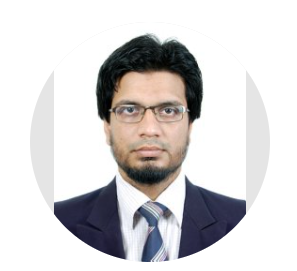
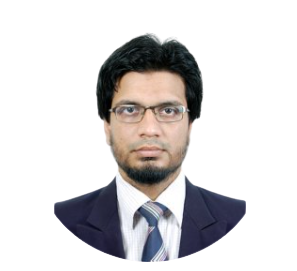
newww

diff --git a/index.html b/index.html
@@ -224,31 +224,31 @@
             <div class="col-sm-16">
                 <div class="row text-center">
                     <div class="card col-sm-12" id="speakerCard">
-                        <img src="/img/pic1.png" class="card-img-top rounded-circle" alt="Prof. Shigeki Takeda">
+                        <center><img src="/img/pic1.png" class="card-img-top profile" alt="Prof. Shigeki Takeda"></center>
                         <div class="card-body">
                             <h5 class="card-title">Prof. Shigeki Takeda</h5>
                             <p class="card-text">Graduate School of Science and Engineering, Ibaraki University, Japan.</p>
                         </div>
                     </div>
                     <div class="card" id="speakerCard">
-                        <img src="/img/pic2.jpg" class="card-img-top rounded-circle" alt="Prof. Sri Hartati">
+                        <center> <img src="/img/pic2.png" class="card-img-top profile" alt="Prof. Sri Hartati"></center>
                         <div class="card-body">
                             <h5 class="card-title">Prof. Sri Hartati</h5>
-                            <p class="card-text">Faculty of Mathematics and Natural Science, Universitas Gajah Mada, Indonesia.</p>
+                            <p class="card-text">Faculty of Mathematics and Natural Sciences, Universitas Gajah Mada, Indonesia.</p>
                         </div>
                     </div>
                     <div class="card" id="speakerCard">
-                        <img src="/img/pic3.png" class="card-img-top  rounded-circle" alt="Dr. Fakir Sharif Hossain">
+                        <img src="/img/pic3.png" class="card-img-top " alt="Dr. Fakir Sharif Hossain">
                         <div class="card-body">
                             <h5 class="card-title">Dr. Fakir Sharif Hossain</h5>
                             <p class="card-text">Bangladesh Army International University of Science and Technology, Bangladesh.</p>
                         </div>
                     </div>
                     <div class="card" id="speakerCard">
-                        <img src="/page/assets/avaF.png" class="card-img-top" alt="...">
+                        <center> <img src="/img/pic4.jpg" class="card-img-top profile" alt="Dr.Asaad Ahmed"></center>
                         <div class="card-body">
-                            <h5 class="card-title">Coming Soon</h5>
-                            <p class="card-text">Some quick example text to build on the card title and make up the bulk of the card's content.</p>
+                            <h5 class="card-title">Dr. Asaad Ahmed</h5>
+                            <p class="card-text">Faculty of Computing and Information Technology, King Abdulaziz University.</p>
                         </div>
                     </div>
                 </div>
@@ -1523,7 +1523,7 @@
                                     </table>
                                 </div>
                                 <div class="modal-footer">
-                                    <a href="https://edas.info/r29182" class="btn btn-primary ">Register</a>
+                                    <a href="#https://edas.info/r29182" class="btn btn-primary ">Register</a>
                                 </div>
                             </div>
                         </div>

diff --git a/style.css b/style.css
@@ -821,6 +821,15 @@
             font-family: raleway;
         }
         
+        #speaker img {
+            border-radius: 50%;
+        }
+        
+        .profile {
+            width: 210px;
+            margin-top: 15px;
+        }
+        
         #speak h1 {
             font-size: 50px;
             font-family: raleway;
